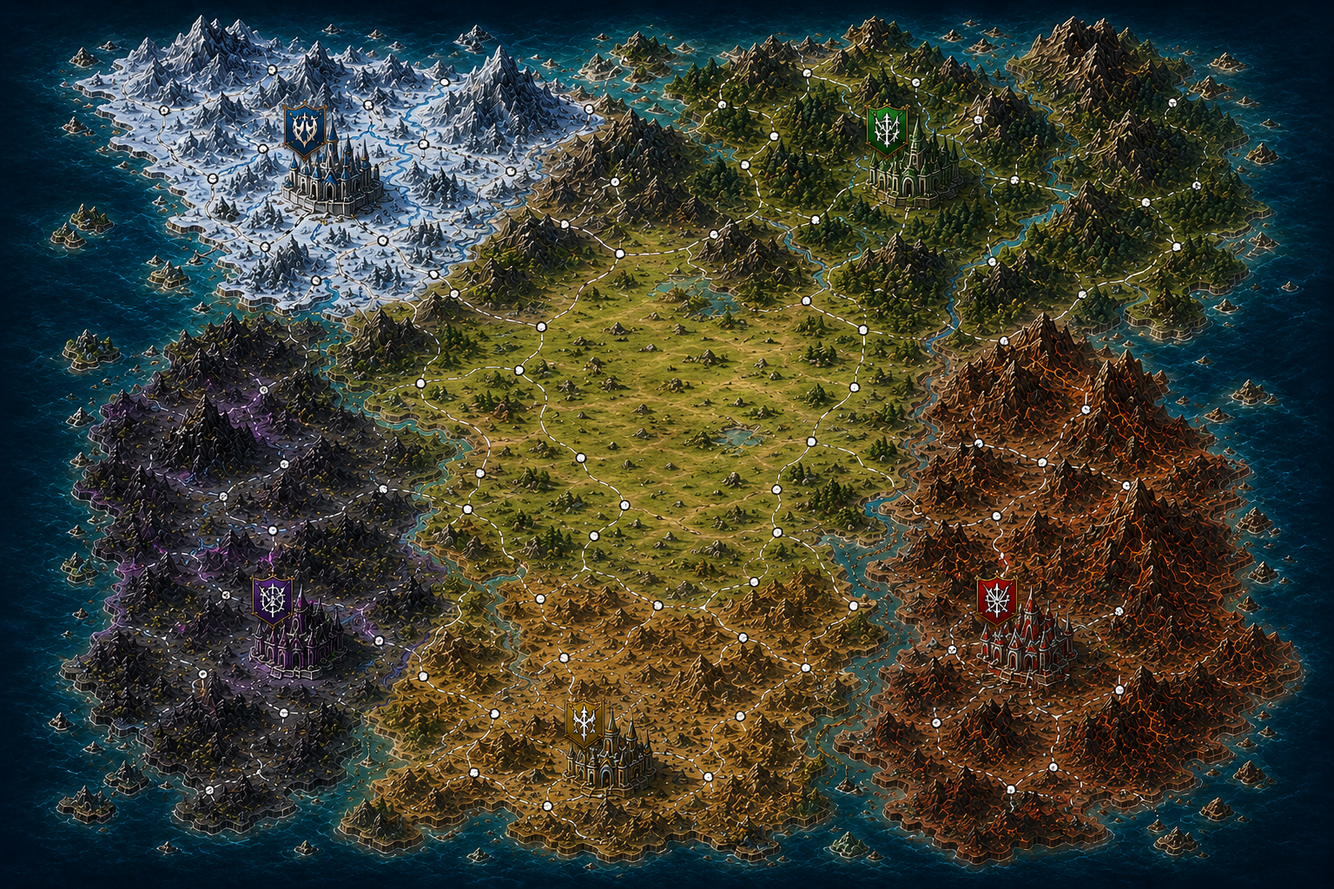
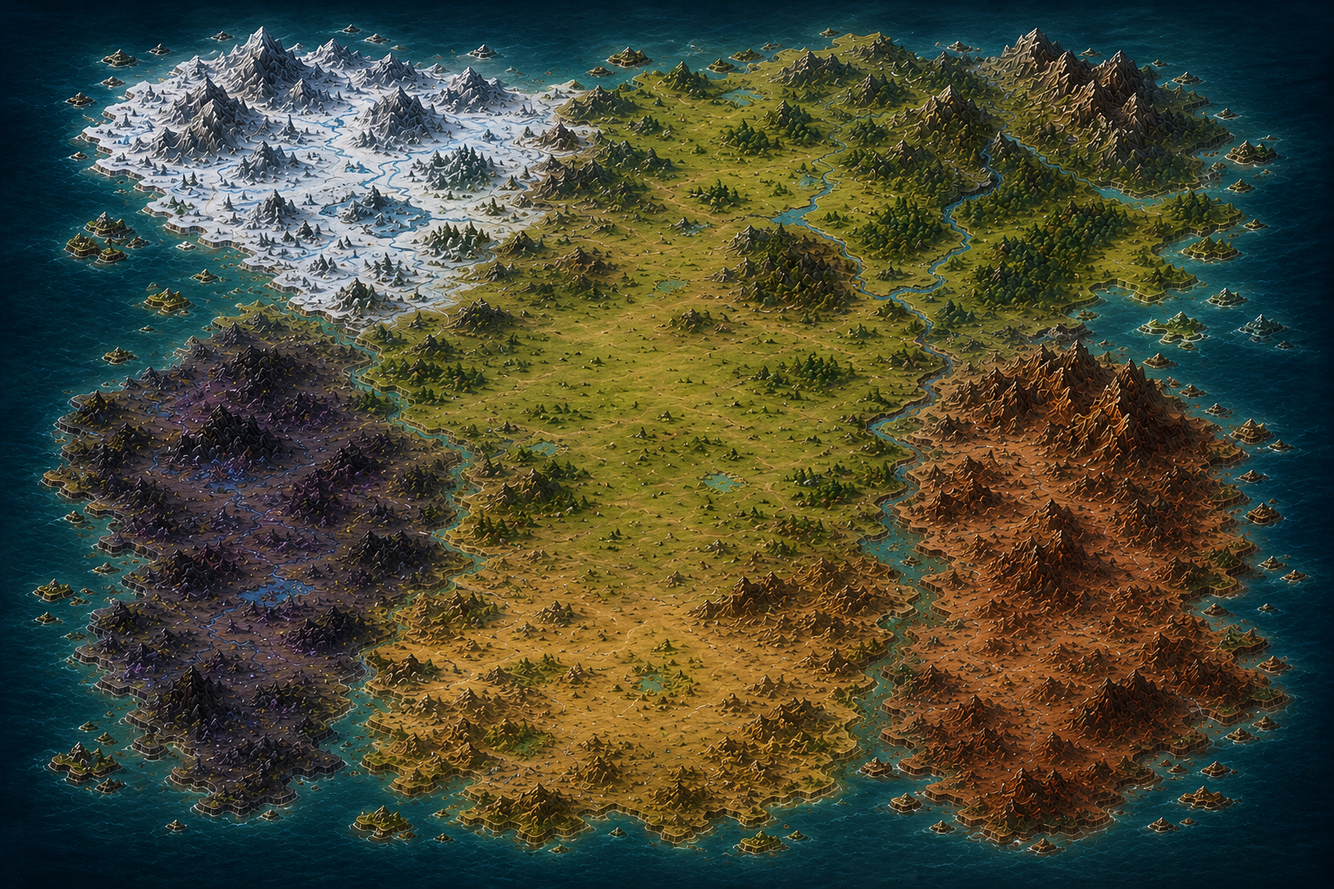
feat(v2): 깨끗한 biome 맵 + 마커 디자인 업그레이드
이미지 교체 — 점·원·castle 다 빼고 순수 biome 만. 모든 시각은 SVG 가 그림.
데이터 = 단일 source-of-truth.

마커 디자인:
- 항상 채워진 상태 (이전엔 outline 만, 빈 background 위라 안 보였음)
- tier 4 (왕국) = 5 꼭짓점 별 polygon. 90 px 반지름
- tier 1~3 = 원. 22/36/55 px (이전보다 작음 — 깨끗한 배경 위라 small marker OK)
- hover/select 시 20% 확대 + 노란 outline + 라벨

- starPoints() helper — 5 꼭짓점 별 polygon 좌표 산출

좌표 재매핑 필요 — png 가 바뀌면서 거점 위치 다시 잡아야 함 (특히 5왕국).

diff --git a/src/adventure/v2/ContinentMap.tsx b/src/adventure/v2/ContinentMap.tsx
@@ -21,11 +21,12 @@ const TYPE_COLOR: Record<OutpostType, string> = {
 };
 
 // tier 별 marker 반지름 (큰 좌표 공간 단위). 화면 fit 시 자동 scaling.
+// 깨끗한 biome 배경 위라 너무 크지 않게.
 const TIER_RADIUS: Record<OutpostTier, number> = {
-  1: 28,
-  2: 50,
-  3: 80,
-  4: 130,
+  1: 22,
+  2: 36,
+  3: 55,
+  4: 90,
 };
 
 // tier 별 라벨 보임 여부.
@@ -35,6 +36,18 @@ const TIER_LABEL_VISIBLE: Record<OutpostTier, boolean> = {
   3: true,
   4: true,
 };
+
+// 5 꼭짓점 별 polygon — 외부반지름 r, 내부반지름 r * 0.4. cx, cy 중심.
+function starPoints(cx: number, cy: number, r: number): string {
+  const inner = r * 0.4;
+  const pts: string[] = [];
+  for (let i = 0; i < 10; i += 1) {
+    const radius = i % 2 === 0 ? r : inner;
+    const angle = (Math.PI / 5) * i - Math.PI / 2;
+    pts.push(`${cx + radius * Math.cos(angle)},${cy + radius * Math.sin(angle)}`);
+  }
+  return pts.join(" ");
+}
 
 // tier 4 (왕국) 는 별도 색 (선아출드 등은 type 보단 "왕국" 표식 우선).
 const KINGDOM_FILL = "#b04535";
@@ -135,6 +148,8 @@ export function ContinentMap() {
                   : "#1a1a1a";
               const strokeWidth = isNeutral ? 22 : isSelected ? 26 : 8;
               const showLabel = isSelected || isHover;
+              const markerFill = isNeutral ? "#f4c842" : fill;
+              const markerStroke = showLabel ? "#fff1a8" : "#0a0a0a";
               return (
                 <g
                   key={o.id}
@@ -146,42 +161,37 @@ export function ContinentMap() {
                   onMouseLeave={() => setHover(null)}
                   className="cursor-pointer"
                 >
-                  {/* 큰 투명 hit area (작은 outline 만 시각). */}
-                  <circle
-                    cx={o.position.x}
-                    cy={o.position.y}
-                    r={r}
-                    fill="transparent"
-                  />
-                  <circle
-                    cx={o.position.x}
-                    cy={o.position.y}
-                    r={Math.max(15, r * 0.35)}
-                    fill={showLabel ? fill : "transparent"}
-                    fillOpacity={showLabel ? 0.4 : 0}
-                    stroke={
-                      isNeutral
-                        ? "#f4c842"
-                        : showLabel
-                          ? "#fff1a8"
-                          : isKingdom
-                            ? "#ffd98a"
-                            : "#ffffff"
-                    }
-                    strokeWidth={isKingdom ? 12 : isNeutral ? 10 : 6}
-                    strokeOpacity={showLabel ? 1 : 0.55}
-                  />
-                  {showLabel && (
+                  {/* 시각용 marker — tier 4 는 별, 그 외는 원. 항상 채워져 보임. */}
+                  {isKingdom ? (
+                    <polygon
+                      points={starPoints(o.position.x, o.position.y, r)}
+                      fill={markerFill}
+                      stroke={markerStroke}
+                      strokeWidth={showLabel ? 14 : 8}
+                      strokeLinejoin="round"
+                    />
+                  ) : (
+                    <circle
+                      cx={o.position.x}
+                      cy={o.position.y}
+                      r={showLabel ? r * 1.2 : r}
+                      fill={markerFill}
+                      stroke={markerStroke}
+                      strokeWidth={showLabel ? 10 : 5}
+                    />
+                  )}
+                  {/* 라벨 — tier 3+ 항상, tier 1~2 hover/select 시 */}
+                  {(TIER_LABEL_VISIBLE[o.tier] || showLabel) && (
                     <text
                       x={o.position.x}
-                      y={o.position.y - r - 8}
+                      y={o.position.y - r - 14}
                       textAnchor="middle"
-                      fontSize={isKingdom ? 110 : 80}
+                      fontSize={isKingdom ? 95 : o.tier === 3 ? 65 : 60}
                       fontWeight={700}
                       fill="#fff"
                       paintOrder="stroke"
                       stroke="#000"
-                      strokeWidth={14}
+                      strokeWidth={12}
                     >
                       {o.name}
                     </text>
